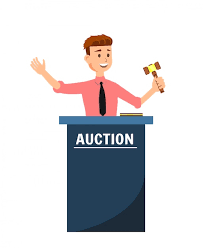
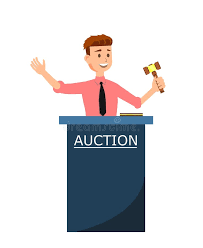
fix sulle card home-page + creato componente scambi

diff --git a/src/app/pages/layout/home-page/cards/cards.html b/src/app/pages/layout/home-page/cards/cards.html
@@ -1,62 +1,21 @@
-<div class="container mx-auto px-4 max-w-5xl py-20 scroll-mt-16">
-    <div class="grid grid-cols-2 gap-4">
-        <div class="opacity-0 animate-fade-in-up">
-            <!-- style="animation-delay: 0ms; animation-fill-mode: forwards;" -->
-            <a [routerLink]="['asta', 'live']" class="block group relative rounded-lg overflow-hidden
-                    bg-zinc-800/50 border-zinc-700
+<div class="min-h-screen bg-indigo-500/10 px-4 py-10">
+    <div class="mx-auto grid max-w-4xl grid-cols-2 gap-4">
+        @for (card of cards; track card.route) {
+        <a [routerLink]="card.route" class="group flex h-full flex-col rounded-lg overflow-hidden
+                    bg-zinc-800 border-zinc-700
                     border hover:border-indigo-500/50 transition-all duration-300
                     hover:-translate-y-1 hover:shadow-xl hover:shadow-indigo-500/10">
-                <div class="flex flex-col overflow-hidden bg-zinc-900">
+            <!-- Contenitore immagine a rapporto fisso: garantisce altezza identica tra tutte le card -->
+            <div class="relative aspect-video shrink-0 overflow-hidden">
+                <img [src]="card.imgUrl" [alt]="card.title"
+                    class="h-full w-full object-contain bg-white" />
+            </div>
 
-                    <!-- IMMAGINE -->
-                    <div class="h-1/2 bg-white flex items-center justify-center">
-                        <!--vedere tutta l’immagine object contain-->
-                        <img src="assets/asta.png" class="max-h-full object-contain" alt="Asta Live" />
-                    </div>
-
-                    <!-- TESTO -->
-                    <div class="h-1/2 p-6 flex flex-col justify-center">
-                        <h3 class="text-lg flex font-semibold text-white mb-2">
-                            Asta Live
-                        </h3>
-                        <p class="text-zinc-400 flex text-sm">
-                            Partecipa all'asta in tempo reale
-                        </p>
-                    </div>
-
-                </div>
-            </a>
-        </div>
-
-
-<!--seconda card da fare dinamica in seguito-->
-        <div class="opacity-0 animate-fade-in-up">
-            <!-- style="animation-delay: 0ms; animation-fill-mode: forwards;" -->
-            <a href="#" class="block group relative rounded-lg overflow-hidden
-                    bg-zinc-800/50 border-zinc-700
-                    border hover:border-indigo-500/50 transition-all duration-300
-                    hover:-translate-y-1 hover:shadow-xl hover:shadow-indigo-500/10">
-                <div class="flex flex-col overflow-hidden bg-zinc-900">
-
-                    <!-- IMMAGINE -->
-                    <div class="h-1/2 bg-white flex items-center justify-center">
-                        <!--vedere tutta l’immagine object contain-->
-                        <img src="assets/asta.png" class="max-h-full object-contain" alt="Asta Live" />
-                    </div>
-
-                    <!-- TESTO -->
-                    <div class="h-1/2 p-6 flex flex-col justify-center">
-                        <h3 class="text-lg flex font-semibold text-white mb-2">
-                            Rosa
-                        </h3>
-                        <p class="text-zinc-400 flex text-sm">
-                            Visualizza la tua rosa
-                        </p>
-                    </div>
-
-                </div>
-            </a>
-        </div>
-
+            <div class="flex flex-1 flex-col gap-1 p-4">
+                <h3 class="text-base font-bold text-white">{{ card.title }}</h3>
+                <p class="text-sm text-slate-300">{{ card.subTitle }}</p>
+            </div>
+        </a>
+        }
     </div>
 </div>

diff --git a/src/app/pages/components/asta-live/asta-live.html b/src/app/pages/components/asta-live/asta-live.html
@@ -3,7 +3,7 @@
 
         <!-- Etichetta + timer, insieme in alto a destra -->
         <div class="absolute top-4 left-4 right-4 flex items-center gap-3 sm:right-6 sm:top-6 justify-between">
-            <button type="button" (click)="onIndietroClick()" class="flex bg-gray-300 hover:bg-gray-500 hover:text-white cursor-pointer font-semibold
+            <button type="button" (click)="onIndietroClick()" class="flex bg-gray-400 hover:bg-gray-500 hover:text-white cursor-pointer font-semibold
                 backdrop-blur-md transition-all border border-white/10 items-center gap-2 rounded-xl px-4 py-1">
                 Indietro
             </button>
@@ -26,7 +26,7 @@
                         <span class="font-mono text-white">{{ asta.giocatoriRimasti() }}</span>
                     </div>
                     <div class="h-2 w-full overflow-hidden rounded-full bg-white/10">
-                        <div class="h-full rounded-full bg-linear-to-r from-blue-400 to-white transition-all"
+                        <div class="h-full rounded-full bg-linear-to-r from-blue-400 to-blue-500 transition-all"
                             [style.width.%]="asta.percentualeRimanenti()"></div>
                     </div>
                 </div>

diff --git a/src/app/pages/layout/home-page/cards/cards.ts b/src/app/pages/layout/home-page/cards/cards.ts
@@ -1,5 +1,6 @@
 import { Component } from '@angular/core';
 import { RouterLink } from "@angular/router";
+import { HomeCard } from './model/home-card.model';
 
 @Component({
   selector: 'app-cards',
@@ -9,4 +10,21 @@ import { RouterLink } from "@angular/router";
 })
 export class Cards {
 
+
+    // Struttura dinamica: aggiungere una nuova sezione dell'app = aggiungere un
+  // elemento qui, il template si aggiorna da solo grazie al @for.
+  protected readonly cards: HomeCard[] = [
+    {
+      title: 'Asta Live',
+      subTitle: "Avvia l'asta random e costruisci le rose in tempo reale",
+      imgUrl: 'assets/asta.png', // inserirai tu l'URL/path dell'immagine
+      route: '/asta/live',
+    },
+    {
+      title: 'Scambi',
+      subTitle: 'Proponi e gestisci gli scambi di giocatori tra fantallenatori',
+      imgUrl: 'assets/scambi.jpg', // inserirai tu l'URL/path dell'immagine
+      route: '/scambi',
+    },
+  ];
 }

diff --git a/src/app/app.routes.ts b/src/app/app.routes.ts
@@ -2,6 +2,7 @@ import { Routes } from '@angular/router';
 import { AstaLive } from './pages/components/asta-live/asta-live';
 import { HomePage } from './pages/layout/home-page/home-page';
 import { Layout } from './pages/layout/layout';
+import { Scambi } from './pages/components/scambi/scambi';
 
 export const routes: Routes = [
 
@@ -21,6 +22,10 @@ export const routes: Routes = [
                 data: {
                     nascondiMenu: true,
                 }
+            },
+            {
+                path: "scambi",
+                component: Scambi,
             }
         ]
     }

diff --git a/src/app/pages/components/scambi/scambi.spec.ts b/src/app/pages/components/scambi/scambi.spec.ts
@@ -1,0 +1,23 @@
+import { ComponentFixture, TestBed } from '@angular/core/testing';
+
+import { Scambi } from './scambi';
+
+describe('Scambi', () => {
+  let component: Scambi;
+  let fixture: ComponentFixture<Scambi>;
+
+  beforeEach(async () => {
+    await TestBed.configureTestingModule({
+      imports: [Scambi]
+    })
+    .compileComponents();
+
+    fixture = TestBed.createComponent(Scambi);
+    component = fixture.componentInstance;
+    fixture.detectChanges();
+  });
+
+  it('should create', () => {
+    expect(component).toBeTruthy();
+  });
+});

diff --git a/src/app/pages/components/scambi/scambi.ts b/src/app/pages/components/scambi/scambi.ts
@@ -1,0 +1,11 @@
+import { Component } from '@angular/core';
+
+@Component({
+  selector: 'app-scambi',
+  imports: [],
+  templateUrl: './scambi.html',
+  styleUrl: './scambi.css',
+})
+export class Scambi {
+
+}

diff --git a/src/app/pages/layout/home-page/cards/model/home-card.model.ts b/src/app/pages/layout/home-page/cards/model/home-card.model.ts
@@ -1,0 +1,7 @@
+export interface HomeCard {
+    title: string;
+    subTitle: string;
+    imgUrl: string;
+    /** Path di navigazione al click sulla card. */
+    route: string;
+}

diff --git a/src/app/pages/layout/home-page/cards/cards.css b/src/app/pages/layout/home-page/cards/cards.css
@@ -1,0 +1,3 @@
+:host {
+    display: block;
+}

diff --git a/src/app/pages/components/scambi/scambi.html b/src/app/pages/components/scambi/scambi.html
@@ -1,0 +1,1 @@
+<p>scambi works!</p>
